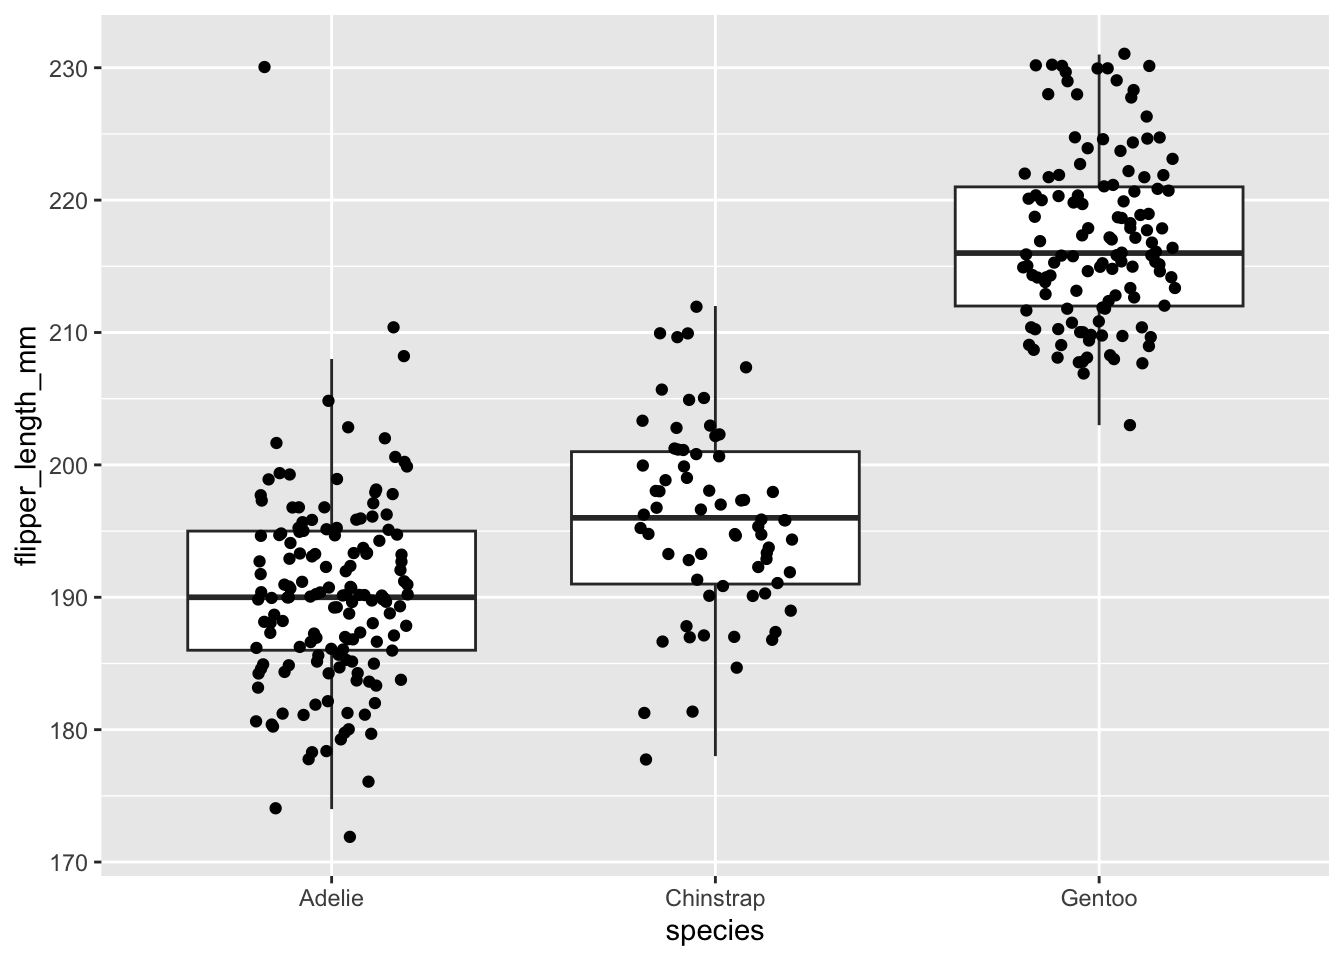
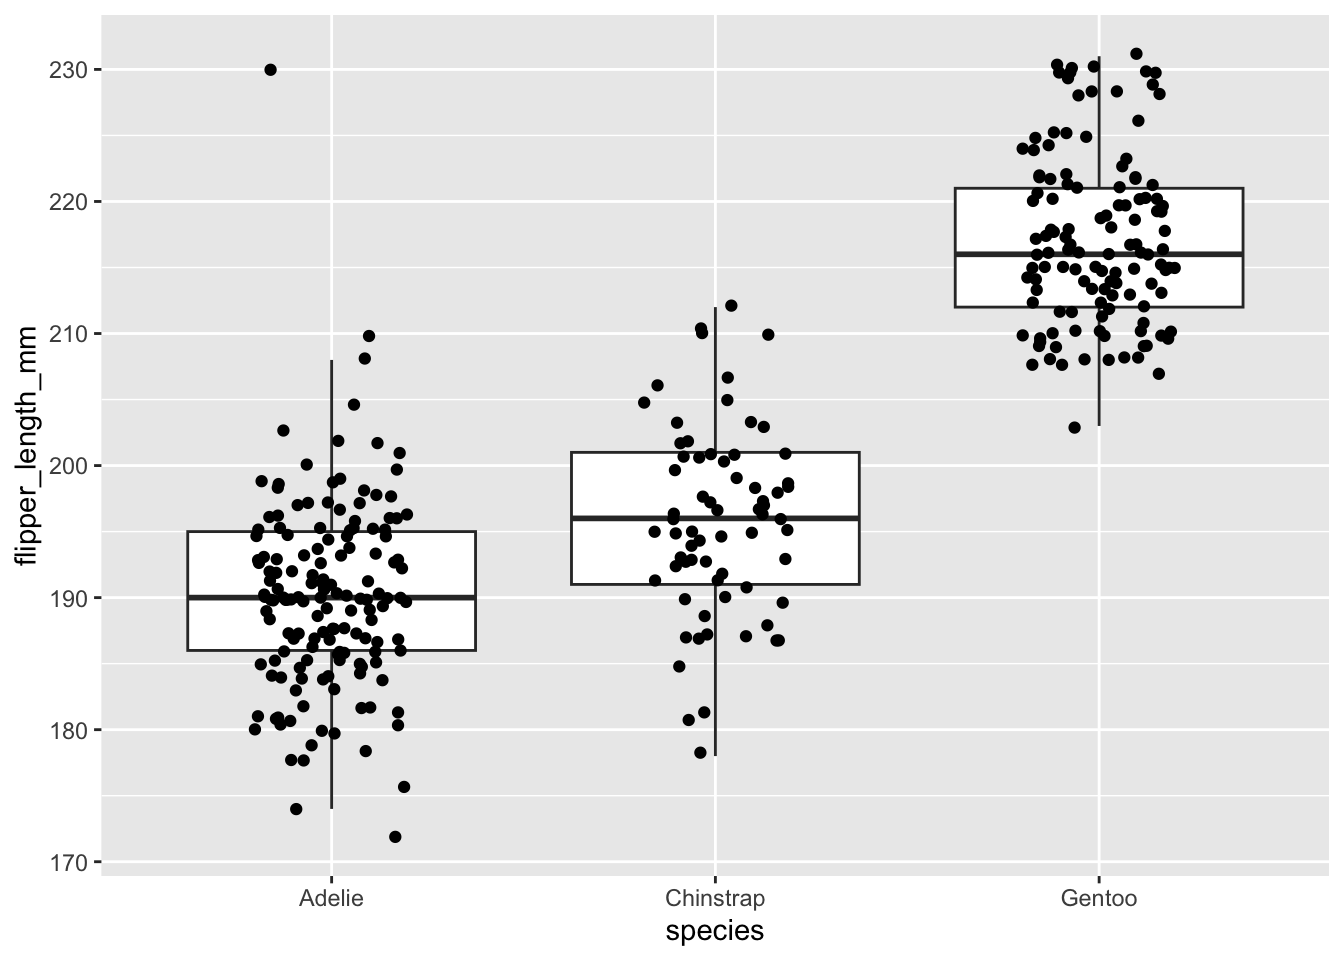
Built site for gh-pages

diff --git a/story_ggplot.html b/story_ggplot.html
@@ -217,11 +217,17 @@ pre > code.sourceCode > span > a:first-child::before { text-decoration: underlin
   <li><a href="#thesis-worthy" id="toc-thesis-worthy" class="nav-link" data-scroll-target="#thesis-worthy">thesis worthy</a></li>
   <li><a href="#export" id="toc-export" class="nav-link" data-scroll-target="#export">export</a></li>
   </ul></li>
-  <li><a href="#raincloud-plots" id="toc-raincloud-plots" class="nav-link" data-scroll-target="#raincloud-plots">raincloud plots</a>
+  </ul></li>
+  <li><a href="#heatmap" id="toc-heatmap" class="nav-link" data-scroll-target="#heatmap">heatmap</a>
   <ul class="collapse">
   <li><a href="#basic-plot-1" id="toc-basic-plot-1" class="nav-link" data-scroll-target="#basic-plot-1">basic plot</a></li>
   <li><a href="#thesis-worthy-1" id="toc-thesis-worthy-1" class="nav-link" data-scroll-target="#thesis-worthy-1">thesis worthy</a></li>
   <li><a href="#export-1" id="toc-export-1" class="nav-link" data-scroll-target="#export-1">export</a></li>
+  <li><a href="#raincloud-plots" id="toc-raincloud-plots" class="nav-link" data-scroll-target="#raincloud-plots">raincloud plots</a>
+  <ul class="collapse">
+  <li><a href="#basic-plot-2" id="toc-basic-plot-2" class="nav-link" data-scroll-target="#basic-plot-2">basic plot</a></li>
+  <li><a href="#thesis-worthy-2" id="toc-thesis-worthy-2" class="nav-link" data-scroll-target="#thesis-worthy-2">thesis worthy</a></li>
+  <li><a href="#export-2" id="toc-export-2" class="nav-link" data-scroll-target="#export-2">export</a></li>
   </ul></li>
   </ul></li>
   <li><a href="#your-turn" id="toc-your-turn" class="nav-link" data-scroll-target="#your-turn">your turn</a></li>
@@ -276,7 +282,8 @@ pre > code.sourceCode > span > a:first-child::before { text-decoration: underlin
 <div class="cell">
 <div class="code-copy-outer-scaffold"><div class="sourceCode cell-code" id="cb1"><pre class="sourceCode r code-with-copy"><code class="sourceCode r"><span id="cb1-1"><a href="#cb1-1" aria-hidden="true" tabindex="-1"></a><span class="fu">library</span>(tidyverse)</span>
 <span id="cb1-2"><a href="#cb1-2" aria-hidden="true" tabindex="-1"></a><span class="fu">library</span>(ggrain)</span>
-<span id="cb1-3"><a href="#cb1-3" aria-hidden="true" tabindex="-1"></a><span class="fu">library</span>(ggeasy)</span></code></pre></div><button title="Copy to Clipboard" class="code-copy-button"><i class="bi"></i></button></div>
+<span id="cb1-3"><a href="#cb1-3" aria-hidden="true" tabindex="-1"></a><span class="fu">library</span>(ggeasy)</span>
+<span id="cb1-4"><a href="#cb1-4" aria-hidden="true" tabindex="-1"></a><span class="fu">library</span>(ggcorrplot)</span></code></pre></div><button title="Copy to Clipboard" class="code-copy-button"><i class="bi"></i></button></div>
 </div>
 </section>
 <section id="read-data" class="level2">
@@ -337,17 +344,29 @@ pre > code.sourceCode > span > a:first-child::before { text-decoration: underlin
 </div>
 </section>
 </section>
-<section id="raincloud-plots" class="level2">
-<h2 class="anchored" data-anchor-id="raincloud-plots">raincloud plots</h2>
-<p>If your question is about group differences, you can illustrate how your groups differ usinga raincloud plot, which combines summary stats (median &amp; quartiles), the shape of the distribution (density plot), and raw points in a single plot.</p>
-<section id="basic-plot-1" class="level3">
-<h3 class="anchored" data-anchor-id="basic-plot-1">basic plot</h3>
+</section>
+<section id="heatmap" class="level1">
+<h1>heatmap</h1>
+<p>If your questions is about how strongly variables are related, it can be useful to visualise that in a heatmap using the <code>ggcorrplot</code> package.</p>
+<p>In the case of the penguin data, we might be interested in how the penguins body measurements correlate.</p>
+<section id="basic-plot-1" class="level2">
+<h2 class="anchored" data-anchor-id="basic-plot-1">basic plot</h2>
 <div class="cell">
-<div class="code-copy-outer-scaffold"><div class="sourceCode cell-code" id="cb6"><pre class="sourceCode r code-with-copy"><code class="sourceCode r"><span id="cb6-1"><a href="#cb6-1" aria-hidden="true" tabindex="-1"></a>penguins <span class="sc">%&gt;%</span></span>
-<span id="cb6-2"><a href="#cb6-2" aria-hidden="true" tabindex="-1"></a>  <span class="fu">ggplot</span>(<span class="fu">aes</span>(<span class="at">x =</span> species, </span>
-<span id="cb6-3"><a href="#cb6-3" aria-hidden="true" tabindex="-1"></a>             <span class="at">y =</span> flipper_length_mm, </span>
-<span id="cb6-4"><a href="#cb6-4" aria-hidden="true" tabindex="-1"></a>             <span class="at">fill =</span> species)) <span class="sc">+</span></span>
-<span id="cb6-5"><a href="#cb6-5" aria-hidden="true" tabindex="-1"></a>  <span class="fu">geom_rain</span>()  </span></code></pre></div><button title="Copy to Clipboard" class="code-copy-button"><i class="bi"></i></button></div>
+<div class="code-copy-outer-scaffold"><div class="sourceCode cell-code" id="cb6"><pre class="sourceCode r code-with-copy"><code class="sourceCode r"><span id="cb6-1"><a href="#cb6-1" aria-hidden="true" tabindex="-1"></a><span class="co"># select variables</span></span>
+<span id="cb6-2"><a href="#cb6-2" aria-hidden="true" tabindex="-1"></a></span>
+<span id="cb6-3"><a href="#cb6-3" aria-hidden="true" tabindex="-1"></a>penguin_measurements <span class="ot">&lt;-</span> penguins <span class="sc">%&gt;%</span></span>
+<span id="cb6-4"><a href="#cb6-4" aria-hidden="true" tabindex="-1"></a>  <span class="fu">select</span>(<span class="fu">starts_with</span>(<span class="st">"bill"</span>), <span class="fu">starts_with</span>(<span class="st">"flipper"</span>), body_mass_g)</span>
+<span id="cb6-5"><a href="#cb6-5" aria-hidden="true" tabindex="-1"></a></span>
+<span id="cb6-6"><a href="#cb6-6" aria-hidden="true" tabindex="-1"></a><span class="co"># get correlation matrix</span></span>
+<span id="cb6-7"><a href="#cb6-7" aria-hidden="true" tabindex="-1"></a></span>
+<span id="cb6-8"><a href="#cb6-8" aria-hidden="true" tabindex="-1"></a>corr <span class="ot">&lt;-</span> <span class="fu">cor</span>(penguin_measurements, </span>
+<span id="cb6-9"><a href="#cb6-9" aria-hidden="true" tabindex="-1"></a>             <span class="at">method =</span> <span class="st">"pearson"</span>,</span>
+<span id="cb6-10"><a href="#cb6-10" aria-hidden="true" tabindex="-1"></a>                   <span class="at">use =</span> <span class="st">"pairwise.complete.obs"</span>)</span>
+<span id="cb6-11"><a href="#cb6-11" aria-hidden="true" tabindex="-1"></a></span>
+<span id="cb6-12"><a href="#cb6-12" aria-hidden="true" tabindex="-1"></a></span>
+<span id="cb6-13"><a href="#cb6-13" aria-hidden="true" tabindex="-1"></a><span class="co"># plot the matrix as a heat map</span></span>
+<span id="cb6-14"><a href="#cb6-14" aria-hidden="true" tabindex="-1"></a></span>
+<span id="cb6-15"><a href="#cb6-15" aria-hidden="true" tabindex="-1"></a><span class="fu">ggcorrplot</span>(corr)</span></code></pre></div><button title="Copy to Clipboard" class="code-copy-button"><i class="bi"></i></button></div>
 <div class="cell-output-display">
 <div>
 <figure class="figure">
@@ -357,21 +376,15 @@ pre > code.sourceCode > span > a:first-child::before { text-decoration: underlin
 </div>
 </div>
 </section>
-<section id="thesis-worthy-1" class="level3">
-<h3 class="anchored" data-anchor-id="thesis-worthy-1">thesis worthy</h3>
-<p>Remove the legend, fix the theme to be more APAesque, add dot transparency, add x and y axis labels, fix the text size.</p>
+<section id="thesis-worthy-1" class="level2">
+<h2 class="anchored" data-anchor-id="thesis-worthy-1">thesis worthy</h2>
+<p>Make the heatmap display only the upper triangle, print the R values in the tiles, remove legend, and adjust colour scheme.</p>
 <div class="cell">
-<div class="code-copy-outer-scaffold"><div class="sourceCode cell-code" id="cb7"><pre class="sourceCode r code-with-copy"><code class="sourceCode r"><span id="cb7-1"><a href="#cb7-1" aria-hidden="true" tabindex="-1"></a>penguins <span class="sc">%&gt;%</span></span>
-<span id="cb7-2"><a href="#cb7-2" aria-hidden="true" tabindex="-1"></a>  <span class="fu">ggplot</span>(<span class="fu">aes</span>(<span class="at">x =</span> species, </span>
-<span id="cb7-3"><a href="#cb7-3" aria-hidden="true" tabindex="-1"></a>             <span class="at">y =</span> flipper_length_mm, </span>
-<span id="cb7-4"><a href="#cb7-4" aria-hidden="true" tabindex="-1"></a>             <span class="at">fill =</span> species)) <span class="sc">+</span></span>
-<span id="cb7-5"><a href="#cb7-5" aria-hidden="true" tabindex="-1"></a>  <span class="fu">geom_rain</span>(<span class="at">alpha =</span> <span class="fl">0.5</span>) <span class="sc">+</span> <span class="co">#a dd transparency</span></span>
-<span id="cb7-6"><a href="#cb7-6" aria-hidden="true" tabindex="-1"></a>  <span class="fu">guides</span>(<span class="at">fill =</span> <span class="st">"none"</span>) <span class="sc">+</span> <span class="co"># remove the legend</span></span>
-<span id="cb7-7"><a href="#cb7-7" aria-hidden="true" tabindex="-1"></a>  <span class="fu">theme_classic</span>() <span class="sc">+</span></span>
-<span id="cb7-8"><a href="#cb7-8" aria-hidden="true" tabindex="-1"></a>  <span class="fu">labs</span>(<span class="at">x =</span> <span class="st">"Penguin Species"</span>, <span class="at">y =</span> <span class="st">"Flipper length (mm)"</span>) <span class="sc">+</span></span>
-<span id="cb7-9"><a href="#cb7-9" aria-hidden="true" tabindex="-1"></a>  <span class="fu">easy_x_axis_labels_size</span>(<span class="at">size =</span> <span class="dv">12</span>) <span class="sc">+</span></span>
-<span id="cb7-10"><a href="#cb7-10" aria-hidden="true" tabindex="-1"></a>  <span class="fu">easy_y_axis_labels_size</span>(<span class="at">size =</span> <span class="dv">12</span>) <span class="sc">+</span></span>
-<span id="cb7-11"><a href="#cb7-11" aria-hidden="true" tabindex="-1"></a>  <span class="fu">easy_all_text_size</span>(<span class="at">size =</span> <span class="dv">14</span>) </span></code></pre></div><button title="Copy to Clipboard" class="code-copy-button"><i class="bi"></i></button></div>
+<div class="code-copy-outer-scaffold"><div class="sourceCode cell-code" id="cb7"><pre class="sourceCode r code-with-copy"><code class="sourceCode r"><span id="cb7-1"><a href="#cb7-1" aria-hidden="true" tabindex="-1"></a><span class="fu">ggcorrplot</span>(corr,</span>
+<span id="cb7-2"><a href="#cb7-2" aria-hidden="true" tabindex="-1"></a>    <span class="at">type =</span> <span class="st">"upper"</span>,       <span class="co"># show upper triangle only (alt options "full", "lower")</span></span>
+<span id="cb7-3"><a href="#cb7-3" aria-hidden="true" tabindex="-1"></a>    <span class="at">lab =</span> <span class="cn">TRUE</span>, <span class="co"># print correlation values</span></span>
+<span id="cb7-4"><a href="#cb7-4" aria-hidden="true" tabindex="-1"></a>    <span class="at">show.legend =</span> <span class="cn">FALSE</span>, <span class="co"># remove legend</span></span>
+<span id="cb7-5"><a href="#cb7-5" aria-hidden="true" tabindex="-1"></a>    <span class="at">colors =</span> <span class="fu">c</span>(<span class="st">"#0072B2"</span>, <span class="st">"white"</span>, <span class="st">"#D55E00"</span>))  <span class="co">#adjust colours</span></span></code></pre></div><button title="Copy to Clipboard" class="code-copy-button"><i class="bi"></i></button></div>
 <div class="cell-output-display">
 <div>
 <figure class="figure">
@@ -381,11 +394,61 @@ pre > code.sourceCode > span > a:first-child::before { text-decoration: underlin
 </div>
 </div>
 </section>
-<section id="export-1" class="level3">
-<h3 class="anchored" data-anchor-id="export-1">export</h3>
+<section id="export-1" class="level2">
+<h2 class="anchored" data-anchor-id="export-1">export</h2>
+<div class="cell">
+<div class="code-copy-outer-scaffold"><div class="sourceCode cell-code" id="cb8"><pre class="sourceCode r code-with-copy"><code class="sourceCode r"><span id="cb8-1"><a href="#cb8-1" aria-hidden="true" tabindex="-1"></a><span class="fu">ggsave</span>(<span class="st">"heatmap.png"</span>)</span></code></pre></div><button title="Copy to Clipboard" class="code-copy-button"><i class="bi"></i></button></div>
+</div>
+</section>
+<section id="raincloud-plots" class="level2">
+<h2 class="anchored" data-anchor-id="raincloud-plots">raincloud plots</h2>
+<p>If your question is about group differences, you can illustrate how your groups differ usinga raincloud plot, which combines summary stats (median &amp; quartiles), the shape of the distribution (density plot), and raw points in a single plot.</p>
+<section id="basic-plot-2" class="level3">
+<h3 class="anchored" data-anchor-id="basic-plot-2">basic plot</h3>
+<div class="cell">
+<div class="code-copy-outer-scaffold"><div class="sourceCode cell-code" id="cb9"><pre class="sourceCode r code-with-copy"><code class="sourceCode r"><span id="cb9-1"><a href="#cb9-1" aria-hidden="true" tabindex="-1"></a>penguins <span class="sc">%&gt;%</span></span>
+<span id="cb9-2"><a href="#cb9-2" aria-hidden="true" tabindex="-1"></a>  <span class="fu">ggplot</span>(<span class="fu">aes</span>(<span class="at">x =</span> species, </span>
+<span id="cb9-3"><a href="#cb9-3" aria-hidden="true" tabindex="-1"></a>             <span class="at">y =</span> flipper_length_mm, </span>
+<span id="cb9-4"><a href="#cb9-4" aria-hidden="true" tabindex="-1"></a>             <span class="at">fill =</span> species)) <span class="sc">+</span></span>
+<span id="cb9-5"><a href="#cb9-5" aria-hidden="true" tabindex="-1"></a>  <span class="fu">geom_rain</span>()  </span></code></pre></div><button title="Copy to Clipboard" class="code-copy-button"><i class="bi"></i></button></div>
+<div class="cell-output-display">
+<div>
+<figure class="figure">
+<p><img src="story_ggplot_files/figure-html/unnamed-chunk-9-1.png" class="img-fluid figure-img" width="672"></p>
+</figure>
+</div>
+</div>
+</div>
+</section>
+<section id="thesis-worthy-2" class="level3">
+<h3 class="anchored" data-anchor-id="thesis-worthy-2">thesis worthy</h3>
+<p>Remove the legend, fix the theme to be more APAesque, add dot transparency, add x and y axis labels, fix the text size.</p>
+<div class="cell">
+<div class="code-copy-outer-scaffold"><div class="sourceCode cell-code" id="cb10"><pre class="sourceCode r code-with-copy"><code class="sourceCode r"><span id="cb10-1"><a href="#cb10-1" aria-hidden="true" tabindex="-1"></a>penguins <span class="sc">%&gt;%</span></span>
+<span id="cb10-2"><a href="#cb10-2" aria-hidden="true" tabindex="-1"></a>  <span class="fu">ggplot</span>(<span class="fu">aes</span>(<span class="at">x =</span> species, </span>
+<span id="cb10-3"><a href="#cb10-3" aria-hidden="true" tabindex="-1"></a>             <span class="at">y =</span> flipper_length_mm, </span>
+<span id="cb10-4"><a href="#cb10-4" aria-hidden="true" tabindex="-1"></a>             <span class="at">fill =</span> species)) <span class="sc">+</span></span>
+<span id="cb10-5"><a href="#cb10-5" aria-hidden="true" tabindex="-1"></a>  <span class="fu">geom_rain</span>(<span class="at">alpha =</span> <span class="fl">0.5</span>) <span class="sc">+</span> <span class="co">#a dd transparency</span></span>
+<span id="cb10-6"><a href="#cb10-6" aria-hidden="true" tabindex="-1"></a>  <span class="fu">guides</span>(<span class="at">fill =</span> <span class="st">"none"</span>) <span class="sc">+</span> <span class="co"># remove the legend</span></span>
+<span id="cb10-7"><a href="#cb10-7" aria-hidden="true" tabindex="-1"></a>  <span class="fu">theme_classic</span>() <span class="sc">+</span></span>
+<span id="cb10-8"><a href="#cb10-8" aria-hidden="true" tabindex="-1"></a>  <span class="fu">labs</span>(<span class="at">x =</span> <span class="st">"Penguin Species"</span>, <span class="at">y =</span> <span class="st">"Flipper length (mm)"</span>) <span class="sc">+</span></span>
+<span id="cb10-9"><a href="#cb10-9" aria-hidden="true" tabindex="-1"></a>  <span class="fu">easy_x_axis_labels_size</span>(<span class="at">size =</span> <span class="dv">12</span>) <span class="sc">+</span></span>
+<span id="cb10-10"><a href="#cb10-10" aria-hidden="true" tabindex="-1"></a>  <span class="fu">easy_y_axis_labels_size</span>(<span class="at">size =</span> <span class="dv">12</span>) <span class="sc">+</span></span>
+<span id="cb10-11"><a href="#cb10-11" aria-hidden="true" tabindex="-1"></a>  <span class="fu">easy_all_text_size</span>(<span class="at">size =</span> <span class="dv">14</span>) </span></code></pre></div><button title="Copy to Clipboard" class="code-copy-button"><i class="bi"></i></button></div>
+<div class="cell-output-display">
+<div>
+<figure class="figure">
+<p><img src="story_ggplot_files/figure-html/unnamed-chunk-10-1.png" class="img-fluid figure-img" width="672"></p>
+</figure>
+</div>
+</div>
+</div>
+</section>
+<section id="export-2" class="level3">
+<h3 class="anchored" data-anchor-id="export-2">export</h3>
 <p>Save your plot as a .png file to insert into your thesis.</p>
 <div class="cell">
-<div class="code-copy-outer-scaffold"><div class="sourceCode cell-code" id="cb8"><pre class="sourceCode r code-with-copy"><code class="sourceCode r"><span id="cb8-1"><a href="#cb8-1" aria-hidden="true" tabindex="-1"></a><span class="fu">ggsave</span>(<span class="st">"penguin_rain.png"</span>)</span></code></pre></div><button title="Copy to Clipboard" class="code-copy-button"><i class="bi"></i></button></div>
+<div class="code-copy-outer-scaffold"><div class="sourceCode cell-code" id="cb11"><pre class="sourceCode r code-with-copy"><code class="sourceCode r"><span id="cb11-1"><a href="#cb11-1" aria-hidden="true" tabindex="-1"></a><span class="fu">ggsave</span>(<span class="st">"penguin_rain.png"</span>)</span></code></pre></div><button title="Copy to Clipboard" class="code-copy-button"><i class="bi"></i></button></div>
 </div>
 </section>
 </section>

diff --git a/index.html b/index.html
@@ -223,7 +223,6 @@ ul.task-list li input[type="checkbox"] {
 <li>a figure that presents your findings transparently will make your thesis stand out in your marker’s pile</li>
 </ul>
 <p>This resource is designed to walk you through the process of making plots that check your data for errors and produce plots that tell your story. You can choose to use the open source GUI-based software JAMOVI, in combinatinon with the vijPlots module, or to use the <code>ggplot</code> package in RStudio.</p>
-<p>```</p>
 
 
 </section>
